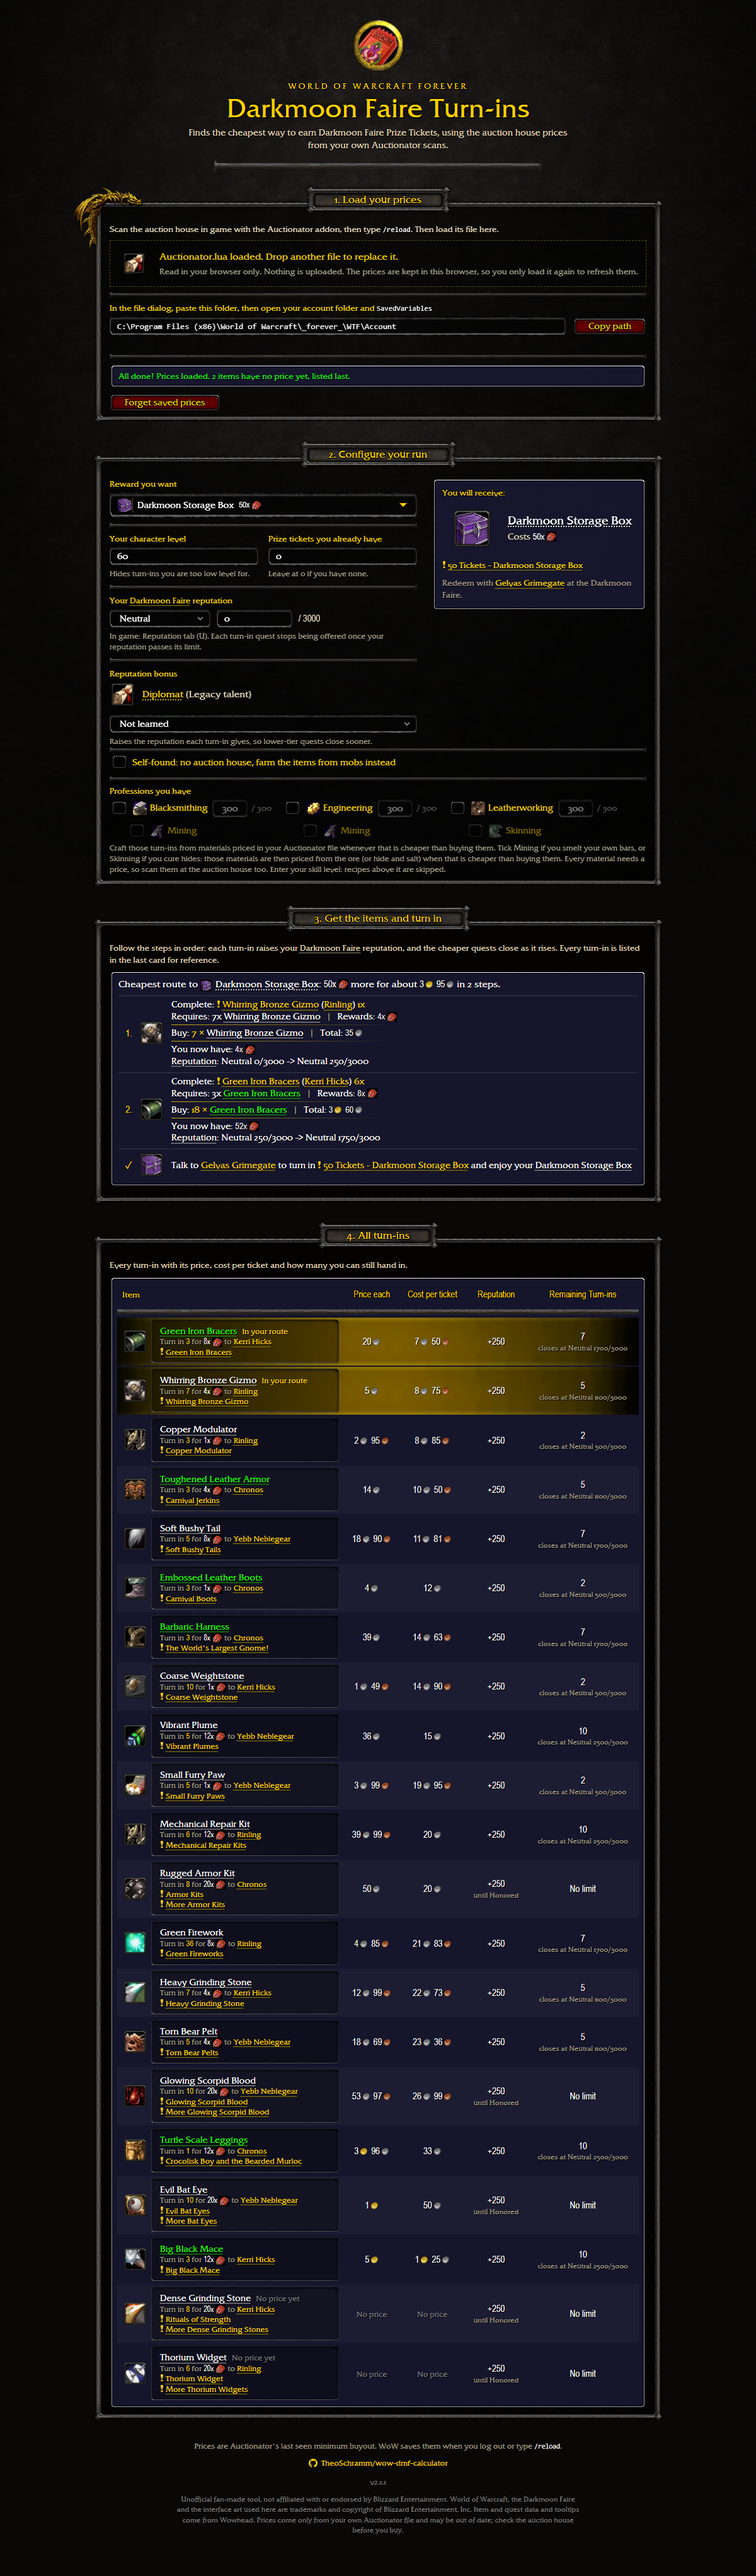
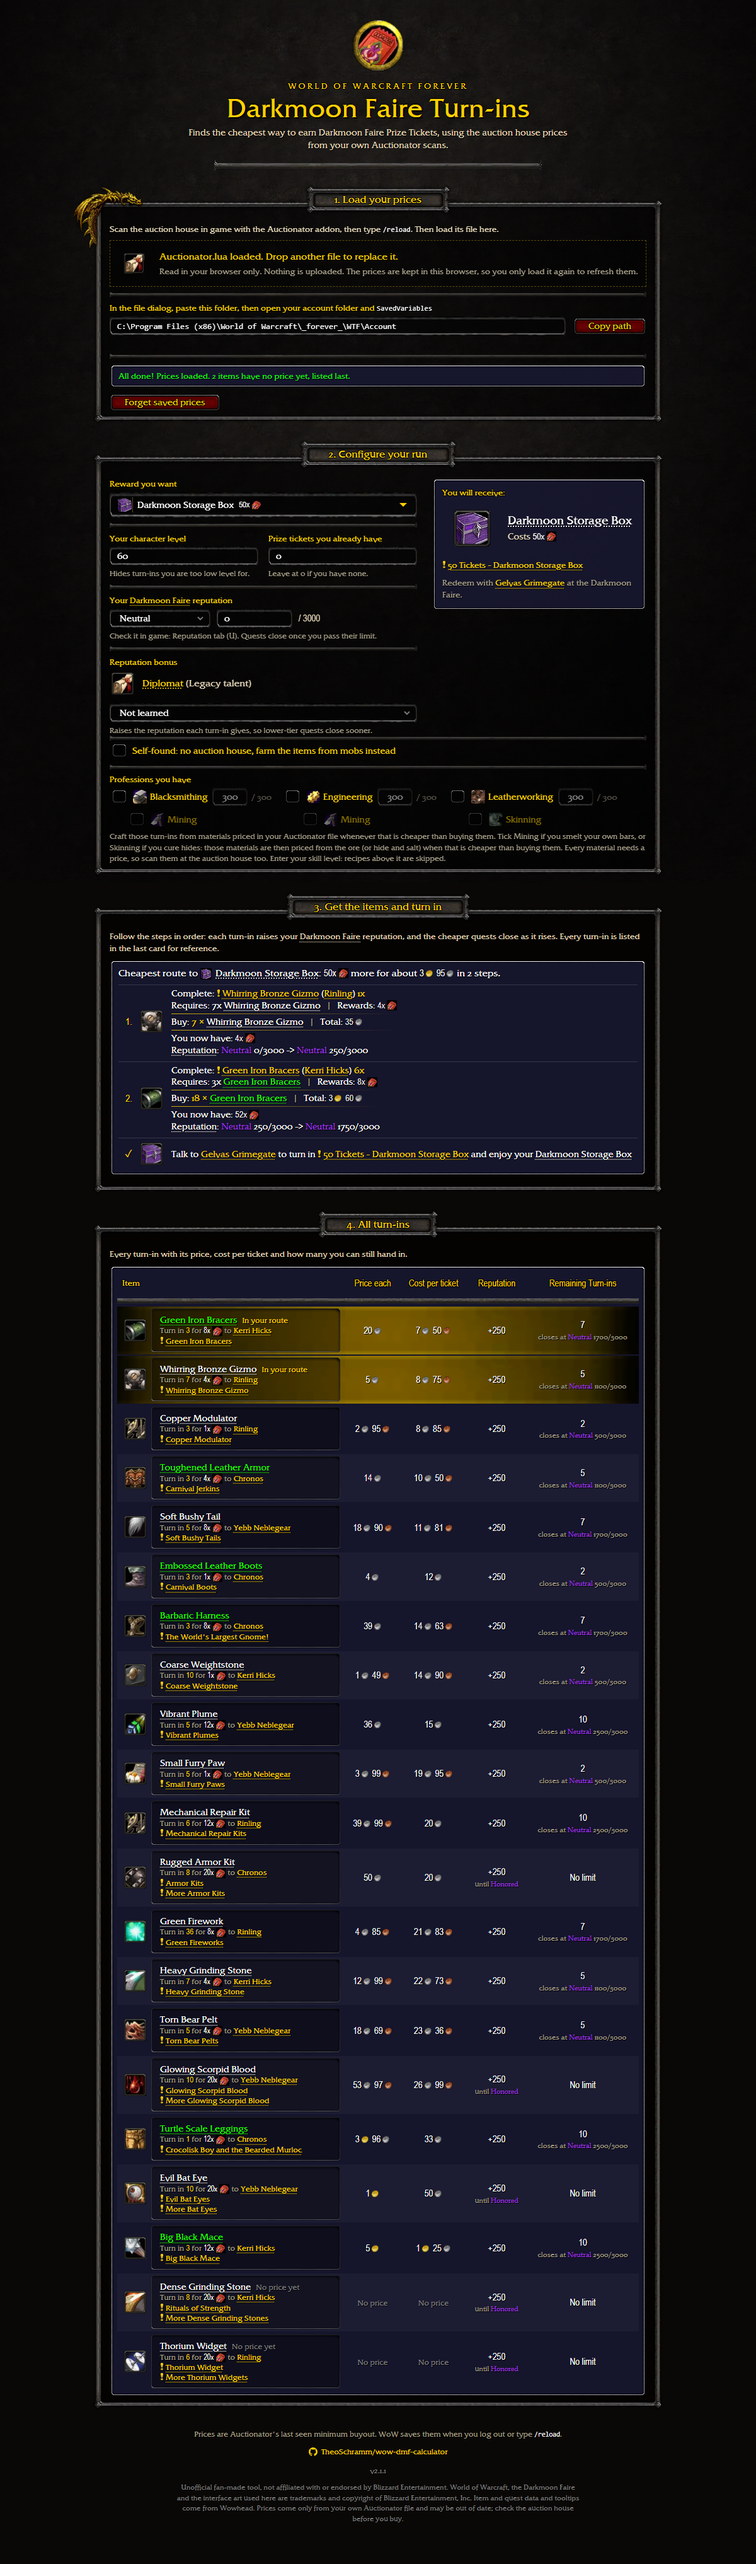
Purple reputation standings, simpler hint and README, retaken screenshots (v2.2.0)

diff --git a/components/results-table.js b/components/results-table.js
@@ -57,7 +57,7 @@
     + pair(`Requires: ${s.item.qnt}x ${wowhead.itemLink(s.item)}`, `Rewards: ${tix(DMF.TICKET_VALUE[s.item.tier - 1])}`);
   const afterSection = s =>
     line(`You now have: ${tix(s.ticketsAfter)}`)
-    + line(`${wowhead.factionLink("Reputation")}: ${esc(DMF.repText(s.repBefore))} -&gt; ${esc(DMF.repText(s.repAfter))}`);
+    + line(`${wowhead.factionLink("Reputation")}: ${rank(DMF.repText(s.repBefore))} -&gt; ${rank(DMF.repText(s.repAfter))}`);
   const othersHtml = s => s.item.farm && s.item.farm.others.length
     ? `<div class="route__meta">Also drops it:${s.item.farm.others.map(m => `<br>${mobLink(m)} (${esc(m.zone)}, ${levels(m)}, ${pct(m.chance)})`).join("")}</div>` : "";
 
@@ -120,6 +120,9 @@
       </div>`;
   }
 
+  // "Friendly 5999/6000" -> the standing name in purple
+  const rank = t => esc(t).replace(/^([A-Za-z]+)/, '<span class="rep-rank">$1</span>');
+
   const money = (v, unit) => v == null ? '<span class="no-price">No price</span>' : UI.money(v * unit);
 
   // reputation one turn-in gives; tier 5 gives it only up to the next rank, then its "More ..." quest gives none
@@ -127,13 +130,13 @@
     const gain = `+${DMF.repPerQuest(repBonus)}`;
     if (r.tier !== 5) return gain;
     const next = DMF.repText(DMF.REP_CAP[4] + 1).split(" ")[0];   // Friendly 5999/6000 is the last point before this rank
-    return `${gain}<span class="left-cap rep-note" title="Gives reputation until ${esc(DMF.repText(DMF.REP_CAP[4]))}. After that the &quot;More ...&quot; quest gives tickets but no reputation.">until ${esc(next)}</span>`;
+    return `${gain}<span class="left-cap rep-note" title="Gives reputation until ${esc(DMF.repText(DMF.REP_CAP[4]))}. After that the &quot;More ...&quot; quest gives tickets but no reputation.">until ${rank(next)}</span>`;
   }
 
   function leftCell(r) {
     if (r.turnInsLeft === Infinity) return '<span title="Never closes: after Friendly 5999 the &quot;More ...&quot; quest keeps giving tickets">No limit</span>';
     const cap = DMF.repText(DMF.REP_CAP[r.tier - 1]);
-    return `<span title="The quest is offered until your reputation reaches ${esc(cap)}">${r.turnInsLeft}</span><span class="left-cap">closes at ${esc(cap)}</span>`;
+    return `<span title="The quest is offered until your reputation reaches ${esc(cap)}">${r.turnInsLeft}</span><span class="left-cap">closes at ${rank(cap)}</span>`;
   }
 
   // Self-found reference table cell: best mob.

diff --git a/components/filters.js b/components/filters.js
@@ -40,7 +40,7 @@
               <input class="input" name="repValue" type="text" data-digits maxlength="5" value="0" inputmode="numeric" autocomplete="off" aria-labelledby="rep-label">
               <span class="rep-input__max" data-ref="rep-max">/ 3000</span>
             </div>
-            <span class="field__hint">In game: Reputation tab (U). Each turn-in quest stops being offered once your reputation passes its limit.</span>
+            <span class="field__hint">Check it in game: Reputation tab (U). Quests close once you pass their limit.</span>
           </div>
           <div class="sep" aria-hidden="true"></div>
           <div class="field">

diff --git a/index.html b/index.html
@@ -75,7 +75,7 @@
         TheoSchramm/wow-dmf-calculator
       </a>
     </p>
-    <p class="site-version" title="Site version">v2.1.1</p>
+    <p class="site-version" title="Site version">v2.2.0</p>
     <p class="disclaimer">
       Unofficial fan-made tool, not affiliated with or endorsed by Blizzard Entertainment.
       World of Warcraft, the Darkmoon Faire and the interface art used here are trademarks and copyright of Blizzard Entertainment, Inc.

diff --git a/css/styles.css b/css/styles.css
@@ -915,3 +915,5 @@ code {
 .faction-link:hover, .faction-link:focus-visible { text-decoration-style: solid; color: var(--highlight); }
 .spell-link { color: var(--normal); }
 .spell-link:hover, .spell-link:focus-visible { text-decoration-style: solid; color: var(--highlight); }
+
+.rep-rank { color: #a335ee; font-family: "Palatino Linotype", "Book Antiqua", Palatino, Georgia, serif; }   /* Friz Quadrata draws a lowercase u like a capital */

diff --git a/README.md b/README.md
@@ -15,34 +15,29 @@ Hover any item or quest for its in-game tooltip (from Wowhead):
 
 ![Wowhead in-game tooltip shown when hovering an item](docs/screenshots/tooltip.png)
 
-## Web version (GitHub Pages)
+## Web version
 
-Open the [website](https://theoschramm.github.io/wow-dmf-calculator/) (or a local copy of `index.html`),
-then drop in your `Auctionator.lua`:
+Open the [website](https://theoschramm.github.io/wow-dmf-calculator/) and drop in your `Auctionator.lua`
+(scan the auction house in game first, then `/reload`):
 
 ```
 World of Warcraft\_forever_\WTF\Account\<ACCOUNT>\SavedVariables\Auctionator.lua
 ```
 
-The file is parsed entirely in your browser and is never uploaded. The prices of the items this tool uses are kept in your
-browser (localStorage), so a page refresh does not need the file again; load it again to refresh the prices, or use
-"Forget saved prices" to delete them. Your choices (reward, level, tickets, reputation, realm, self-found, ticked
-professions, skills and gathering) are remembered the same way.
+The file is read in your browser and never uploaded. The prices this tool uses and your choices (reward, level,
+tickets, reputation, realm, professions) are saved in your browser, so a refresh doesn't need the file again.
+"Forget saved prices" deletes them.
 
 The page has four cards:
 
-1. **Load your prices**: your `Auctionator.lua` (scan the auction house in game first, then `/reload`).
-2. **Configure your run**: the prize you want, your character level, any tickets you already have, your Darkmoon Faire
-   reputation (default Neutral 0), self-found mode and your professions.
-3. **Get the items and turn in**: the cheapest **route**, step by step: which quest to complete, what it needs and gives,
-   how to get the items, with your tickets and reputation after each step.
-4. **All turn-ins**: every turn-in with its price, cost per ticket and how many
-   turn-ins are left before its reputation limit.
+1. **Load your prices**
+2. **Configure your run**: reward, level, tickets you have, reputation, self-found mode, professions.
+3. **Get the items and turn in**: the cheapest route, step by step.
+4. **All turn-ins**: every turn-in with its price, cost per ticket, reputation and turn-ins left.
 
-The route respects reputation limits: each turn-in gives 250 Darkmoon Faire reputation, and the quests of
-tiers 1-4 stop being offered at Neutral 500 / 1100 / 1700 / 2500, so the cheap low tiers can only be used a few
-times and must come first. Tier 5 never closes (after Friendly 5999 its "More ..." quest gives tickets without
-reputation).
+Each turn-in gives 250 reputation, and tier 1-4 quests close at Neutral 500 / 1100 / 1700 / 2500, so the cheap
+tiers can only be used a few times and come first. Tier 5 never closes, but after Friendly 5999 it gives tickets
+without reputation.
 
 ## Command line
 
@@ -52,88 +47,51 @@ Needs [Node.js](https://nodejs.org) 16+. No dependencies.
 node cli.js --target greater --tickets 10 --category Engineering --limit 5
 ```
 
-Options: `--level`, `--tickets`, `--target` (a number or reward key: flower, minor, monthmutton, lesser, greater,
-tonk, box, mutton, amulet, orb; default 50), `--rep` (Darkmoon Faire reputation in points from Neutral 0, so
-Friendly 0 = 3000), `--strict-caps`, `--category`, `--limit`, `--realm`, `--file`.
-With a price file it prints the cheapest route first (same planner as the website), then single-item options.
-`--help` lists every reward with its ticket cost and Wowhead link.
-`--ssf` is the self-found mode (see below): no price file, it plans by kills instead of gold.
-It finds the newest `Auctionator.lua` under `WOW_ROOT` (env var; defaults to the Classic `_forever_` WTF path).
+Options: `--level`, `--tickets`, `--target` (a number or reward key), `--rep` (points from Neutral 0, so Friendly 0 =
+3000), `--prof`, `--gather`, `--ssf`, `--strict-caps`, `--category`, `--limit`, `--realm`, `--file`.
+`--help` lists every reward with its ticket cost. Without `--file` it uses the newest `Auctionator.lua` under
+`WOW_ROOT`.
 
-## Crafting your own turn-ins
+## Crafting
 
-Tick the professions you have (Blacksmithing, Engineering, Leatherworking) in step 2, or pass
-`--prof Engineering:260,Leatherworking` to the CLI (`:skill` is optional, default 300). For those turn-ins the price becomes the cheaper of the auction
-price and the price of the materials, taken from the same Auctionator file, and the route says "Craft ..." with the
-materials to gather. Every material needs an Auctionator price, except the ones a vendor sells (Coarse Thread, Fine Thread, Green Dye, Heavy
-Silken Thread): those cost the lower of the auction price and the vendor price, and the route marks them "(vendor)".
-Anything else without a price shows as "Materials not priced".
+Tick your professions in step 2 (CLI: `--prof Engineering:260,Leatherworking`; skill defaults to 300). A turn-in then
+costs the cheaper of its auction price and its materials, and the route says "Craft ...". Vendor-sold materials use
+the lower of the auction and vendor price. Anything without a price shows "Materials not priced". Recipes needing more
+skill than you have are skipped (skill values come from wiki.gg Classic, not confirmed for Forever).
 
-Under each profession you can also tick its gathering counterpart: Mining (Blacksmithing, Engineering) or Skinning
-(Leatherworking). A bar is then priced as the cheaper of its auction price and the ore you would smelt (Bronze from
-Copper + Tin, two bars per smelt); a Cured Light Hide from Light Hide + Salt. The route shows "(smelt from 6 x Iron Ore)".
-The ore still needs an Auctionator price. Stone and the other leathers have no raw form, so they are priced as before,
-and gathering skill is not checked. In the CLI use `--gather Mining,Skinning`. Enter your skill level for each profession: recipes that need more are skipped and tagged "Needs skill N" (the skill
-needs come from wiki.gg's Classic values, not confirmed for Forever). Materials are priced as they
-are (a Solid Grinding Stone or Heavy Leather is not broken down further). Recipes come from Wowhead Forever;
-`node tools/build-recipes.js` regenerates them in `dmf.js`.
+Tick the gathering counterpart (Mining for Blacksmithing and Engineering, Skinning for Leatherworking; CLI:
+`--gather Mining,Skinning`) and bars are priced as the cheaper of the auction price and smelting the ore (Cured Light
+Hide from Light Hide + Salt). The ore still needs an Auctionator price.
 
-## Self-found mode (no auction house)
+## Self-found mode
 
-Tick "Self-found" in step 2 of the page (or pass `--ssf` to the CLI) to farm the items instead of buying them.
-The planner then minimises expected kills rather than gold, picking for each step the mob with the best drop
-chance that you can fight at your level (up to 2 levels above you), and lists the next best mobs too.
-Only the Animal Parts drop from mobs; the Blacksmithing, Engineering and Leatherworking turn-ins are crafted,
-so they are left out. Drop chances are looted / times the mob was looted in Wowhead Forever's data, for normal
-open-world mobs only (no elites, rares, dungeons, raids or battlegrounds, and at least 100 recorded loots).
-It is not time-aware: it doesn't know how dense a mob's spawns are, only how often it drops the item.
+Tick "Self-found" (CLI: `--ssf`) to farm instead of buying. The planner minimises expected kills, picking the best
+drop chance among mobs up to 2 levels above you. Only Animal Parts drop from mobs, so crafted turn-ins are left out.
+Drop chances come from Wowhead Forever's data (normal open-world mobs, at least 100 recorded loots).
 
-To refresh the data, install `tools/wowhead-drops.user.js` in Tampermonkey, open each of the six Animal Parts item
-pages on Wowhead Forever, click "Save drops", then "Copy all" and save the JSON as `tools/results.json`.
-`node tools/build-drops.js` rewrites the `DROPS` block in `dmf.js` from it.
+To refresh the data, install `tools/wowhead-drops.user.js` in Tampermonkey, open the six Animal Parts item pages on
+Wowhead Forever, click "Save drops", then "Copy all" and save the JSON as `tools/results.json`. Then run
+`node tools/build-drops.js`. Recipes are regenerated with `node tools/build-recipes.js`.
 
 ## Code layout
 
-- `dmf.js` is the single source of truth: item data, level requirements, Auctionator parsing and the ranking maths.
-- `index.html` (web UI) and `cli.js` (terminal) are thin front-ends over it. Edit items or rules in `dmf.js` only.
-- Web UI:
-  - `index.html`: page skeleton (frames and mount points only).
-  - `css/styles.css`: all styling. It only places real WoW Classic UI textures (dialog frames, red panel
-    buttons, edit boxes, check boxes, item slots, auction rows, highlights, coins) from `assets/ui/`.
-  - `assets/ui/`: those textures, built by `python tools/build-ui-textures.py` (needs Pillow) from
-    [Gethe/wow-ui-textures](https://github.com/Gethe/wow-ui-textures) (`classic` branch). The script only
-    crops them, rearranges border "edge files" into 9-slice images for CSS `border-image`, and removes the
-    gold dragon's tail so it doesn't reach into the frame.
-    The art belongs to Blizzard Entertainment; this is a non-commercial fan tool.
-  - `components/`: one file per UI piece, each a plain script that registers on `window.UI`
-    (`money.js`, `wowhead.js`, `item-picker.js`, `file-loader.js`, `filters.js`, `results-table.js`). Plain scripts rather than ES modules,
-    so `index.html` still works when opened straight from disk.
-  - `app.js`: wires `dmf.js` to the components.
-- `serve.js` only serves published files; add new top-level files to its `PUBLIC` list
-  (files in `css/`, `components/` and `assets/ui/` are allowed automatically).
+- `dmf.js`: single source of truth (data, Auctionator parsing, maths), shared by the site and the CLI.
+- `index.html`, `app.js`, `components/`, `css/`: the web UI, as plain scripts (works from `file://`).
+- `cli.js`: the terminal front-end. `serve.js`: local server for the published files.
+- `assets/ui/`: WoW Classic UI textures from [Gethe/wow-ui-textures](https://github.com/Gethe/wow-ui-textures),
+  built by `python tools/build-ui-textures.py` (needs Pillow). The art belongs to Blizzard Entertainment; this is a
+  non-commercial fan tool.
 
 ## Notes
 
-- Prices are Auctionator's last seen minimum, so they're as fresh as your last in-game
-  scan plus a `/reload` or logout (that's when WoW writes the file).
-- There are no built-in prices. Items Auctionator has no price for are listed last as "No AH price",
-  still showing the quests and items needed.
-- Each turn-in item links its Wowhead quest(s); tier 5 has a first-time quest plus a repeatable "More ..." quest.
-  Each goal is a real reward item, linked with the "N Tickets - ..." quest that redeems it.
-  Item and quest IDs come from Wowhead's Forever data.
-
+- Prices are Auctionator's last seen minimum, as fresh as your last in-game scan plus a `/reload`.
 - Quest quantities, tiers, ticket values and reputation caps come from the
-  [Warcraft Tavern DMF guide](https://www.warcrafttavern.com/forever/guides/darkmoon-faire/)
-  (250 reputation per quest; caps 500/1100/1700/2500 Neutral and Friendly 5999 for tier 5), with the tier-5
-  "More ..." behaviour from [Wowpedia](https://wowpedia.fandom.com/wiki/Darkmoon_Faire_(Classic)).
-  [wowcalc](https://wowcalc.net/en/forever/wiki/reputations/darkmoon-faire) lists +100 for some quests using
-  Classic data it says is unconfirmed for Forever; `REP_PER_QUEST` / `REP_CAP` in `dmf.js` are easy to change.
-- Tier 5 Animal Parts: Evil Bat Eyes (quest 7903) and Glowing Scorpid Blood (quest 8222) are separate
-  quests, so they're separate options.
+  [Warcraft Tavern DMF guide](https://www.warcrafttavern.com/forever/guides/darkmoon-faire/) and
+  [Wowpedia](https://wowpedia.fandom.com/wiki/Darkmoon_Faire_(Classic)). Reputation per quest is not fully verified
+  for Forever; `REP_PER_QUEST` / `REP_CAP` in `dmf.js` are easy to change.
+- Item, quest and recipe IDs come from Wowhead's Forever data.
 
 ## Publishing
 
-The site is deployed to https://theoschramm.github.io/wow-dmf-calculator/ by GitHub Actions
-(`.github/workflows/pages.yml`) on every push to `main`; it can also be run by hand from the Actions tab.
-Only the site files are published (`index.html`, `app.js`, `dmf.js`, `css/`, `components/`, `assets/`).
-Pages source must be set to "GitHub Actions" (Settings > Pages).
+GitHub Actions deploys the site on every push to `main` (`.github/workflows/pages.yml`). Pages source must be
+"GitHub Actions".
